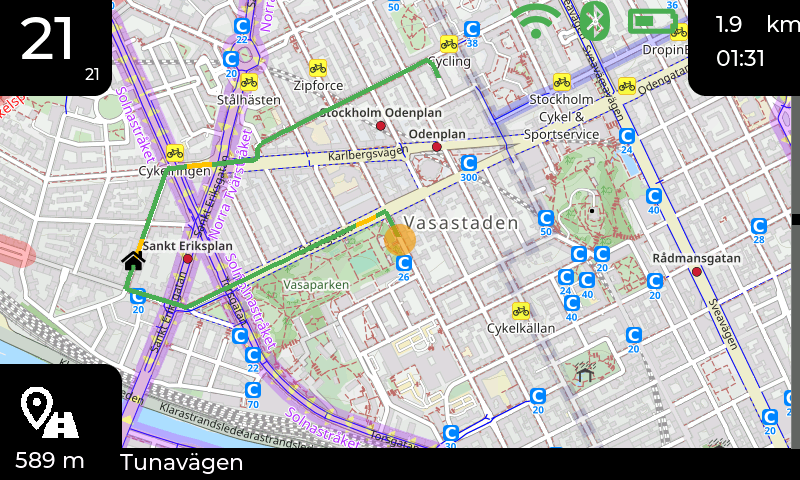
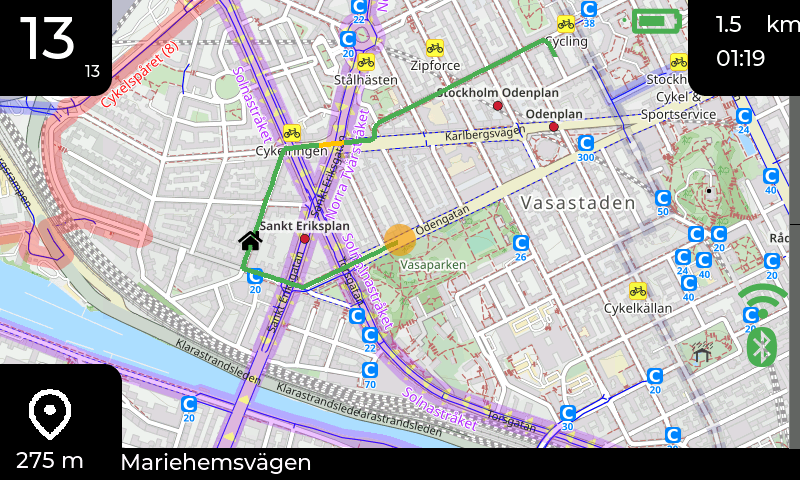
user_interface/esp32: Add wifi ota update support (broken for now)

diff --git a/esp32/waveshare_p4_touch_4_3/main/main.cc b/esp32/waveshare_p4_touch_4_3/main/main.cc
@@ -9,10 +9,12 @@
 #include "filesystem.hh"
 #include "gpio_esp32.hh"
 #include "gps_reader.hh"
+#include "httpd_ota_updater_esp32.hh"
 #include "i2c_gps_esp32.hh"
 #include "image_cache.hh"
 #include "input.hh"
 #include "nvm_esp32.hh"
+#include "ota_updater.hh"
 #include "pm_esp32.hh"
 #include "rotary_encoder.hh"
 #include "sdkconfig.h"
@@ -688,6 +690,8 @@ app_main(void)
 
     auto input = std::make_unique<Input>(*debounced_button, *rotary_encoder, *touch);
 
+    auto httpd_ota_updater = std::make_unique<TargetHttpdOtaUpdater>(*display);
+
     // Threads
     //  auto buzz_handler =
     //      std::make_unique<BuzzHandler>(*left_buzzer_gpio, *right_buzzer_gpio, application_state);
@@ -695,6 +699,8 @@ app_main(void)
         application_state, pm->CreateFullPowerLock(), *filesystem, *https_client);
 
     auto trip_computer = std::make_unique<TripComputer>(application_state);
+
+    auto ota_updater = std::make_unique<OtaUpdater>(*httpd_ota_updater, application_state);
 
     //    constexpr auto kFullRotation = 2400;
     //    auto speedometer_handler =
@@ -704,6 +710,7 @@ app_main(void)
                                                           *blitter,
                                                           pm->CreateFullPowerLock(),
                                                           *input,
+                                                          *ota_updater,
                                                           application_state,
                                                           *image_cache,
                                                           *tile_cache,
@@ -733,6 +740,7 @@ app_main(void)
     can_bus_handler->Start("can_bus_handler", 4096);
     ble_handler->Start("ble_server", 8192);
     wifi_handler->Start("wifi_handler", 8192);
+    ota_updater->Start("ota_updater", 8192);
     //speedometer_handler->Start("speedometer_handler");
     trip_computer->Start("trip_computer");
 

diff --git a/qt/simulator_main.cc b/qt/simulator_main.cc
@@ -10,6 +10,8 @@
 #include "input.hh"
 #include "nvm_host.hh"
 #include "opportunistic_scheduler.hh"
+#include "ota_updater.hh"
+#include "ota_updater_host.hh"
 #include "pm_host.hh"
 #include "simulator_mainwindow.hh"
 #include "speedometer_handler.hh"
@@ -77,9 +79,11 @@ main(int argc, char* argv[])
     auto nvm_host = std::make_unique<NvmHost>("nvm.txt");
     auto blitter = std::make_unique<BlitterHost>();
     auto wifi_client = std::make_unique<WifiClientHost>();
+    auto ota_updater = std::make_unique<OtaUpdaterHost>(false);
 
     // Threads
     auto storage = std::make_unique<Storage>(application_state, *nvm_host);
+    auto ota_updater_thread = std::make_unique<OtaUpdater>(*ota_updater, application_state);
     auto wifi_handler = std::make_unique<WifiHandler>(application_state, *filesystem, *wifi_client);
     auto input = std::make_unique<Input>(window.GetButtonGpio(), window, window.GetTouch());
     auto trip_computer = std::make_unique<TripComputer>(application_state);
@@ -95,6 +99,7 @@ main(int argc, char* argv[])
                                                           *blitter,
                                                           pm->CreateFullPowerLock(),
                                                           *input, // IInput
+                                                          *ota_updater_thread,
                                                           application_state,
                                                           *image_cache,
                                                           *tile_cache,
@@ -104,6 +109,7 @@ main(int argc, char* argv[])
         std::make_unique<SpeedometerHandler>(window.GetStepperMotor(), application_state, 6000);
 
     storage->Start("storage");
+    ota_updater_thread->Start("ota_updater");
     wifi_handler->Start("wifi_handler");
     input->Start("input");
     trip_computer->Start("trip_computer");

diff --git a/src/user_interface/ota_update_screen.cc b/src/user_interface/ota_update_screen.cc
@@ -1,0 +1,67 @@
+#include "ota_update_screen.hh"
+
+
+namespace
+{
+
+constexpr std::string_view kProgressText =
+    "Als Gregor Samsa eines Morgens aus unruhigen Traumen erwachte, fand er sich in seinem Bett zu "
+    "einem ungeheuren Ungeziefer verwandelt";
+
+constexpr auto kNumberOfWords = std::ranges::count(kProgressText, ' ') + 1;
+static_assert(kNumberOfWords < 100);
+
+auto
+ProgressToString(uint8_t progress)
+{
+    if (progress == 100)
+    {
+        return std::string(kProgressText);
+    }
+
+    auto words = (((progress * 0xff) / 100) * kNumberOfWords) / 0xff;
+
+    ssize_t offset = 0;
+    for (auto word = 0; word < words; word++)
+    {
+        offset += kProgressText.substr(offset).find(' ') + 1;
+    }
+
+    return std::string(kProgressText.substr(0, offset));
+}
+
+} // namespace
+
+OtaUpdateScreen::OtaUpdateScreen(UserInterface& parent)
+    : UserInterface::ScreenBase(parent, lv_obj_create(nullptr))
+{
+    auto instructions = parent.m_ota_updater.GetInstructions();
+    m_label = lv_label_create(m_screen);
+
+    lv_obj_set_style_text_font(m_label, &lv_font_montserrat_22, LV_PART_MAIN);
+
+    lv_label_set_text(m_label, instructions);
+
+    lv_obj_set_style_text_align(m_label, LV_TEXT_ALIGN_CENTER, 0);
+    lv_obj_align(m_label, LV_ALIGN_CENTER, 0, 0);
+    lv_obj_set_width(m_label, hal::kDisplayWidth * 0.7f);
+    lv_label_set_long_mode(m_label, LV_LABEL_LONG_WRAP);
+
+    m_progress_cookie = parent.m_ota_updater.SubscribeOnProgress([this, &parent](auto progress) {
+        m_progress = progress;
+        parent.Awake();
+    });
+}
+
+void
+OtaUpdateScreen::Update()
+{
+    auto progress_now = m_progress.load();
+
+    if (progress_now > 0)
+    {
+        auto text = ProgressToString(progress_now);
+
+        lv_label_set_text(m_label, text.c_str());
+    }
+}

diff --git a/src/user_interface/user_interface.cc b/src/user_interface/user_interface.cc
@@ -2,6 +2,7 @@
 
 #include "indicators.hh"
 #include "map_screen.hh"
+#include "ota_update_screen.hh"
 #include "painter.hh"
 #include "settings_menu_screen.hh"
 #include "trip_meter_screen.hh"
@@ -40,6 +41,7 @@ UserInterface::UserInterface(hal::IDisplay& display,
                              hal::IBlitter& blitter,
                              std::unique_ptr<hal::IPm::ILock> pm_lock,
                              hal::IInput& input,
+                             OtaUpdater& ota_updater,
                              ApplicationState& state,
                              ImageCache& cache,
                              TileCache& tile_cache,
@@ -48,6 +50,7 @@ UserInterface::UserInterface(hal::IDisplay& display,
     , m_blitter(blitter)
     , m_pm_lock(std::move(pm_lock))
     , m_input(input)
+    , m_ota_updater(ota_updater)
     , m_state(state)
     , m_image_cache(cache)
     , m_tile_cache(tile_cache)
@@ -175,8 +178,12 @@ UserInterface::OnStartup()
     m_map_screen = std::make_unique<MapScreen>(*this, m_image_cache, m_tile_cache, kDefaultZoom);
     m_trip_meter_screen = std::make_unique<TripMeterScreen>(*this);
     m_settings_menu_screen = std::make_unique<SettingsMenuScreen>(*this);
+    m_ota_update_screen = std::make_unique<OtaUpdateScreen>(*this);
 
-    m_screens = {m_map_screen.get(), m_trip_meter_screen.get(), m_settings_menu_screen.get()};
+    m_screens = {m_map_screen.get(),
+                 m_trip_meter_screen.get(),
+                 m_settings_menu_screen.get(),
+                 m_ota_update_screen.get()};
 
     // Keep this widget above any active screen (map, trip meter, settings, ...).
     m_digital_speedometer = std::make_unique<DigitalSpeedometerWidget>(lv_layer_top());

diff --git a/src/user_interface/settings_menu_screen.cc b/src/user_interface/settings_menu_screen.cc
@@ -140,12 +140,20 @@ SettingsMenuScreen::OnActivation()
                                           .GetWritableReference<AS::configuration>()
                                           .show_speech_bubbles = value;
                                   });
+    settings_page.AddSeparator();
     settings_page.AddBooleanEntry(
         "Force C6 FW upgrade", ro.Get<AS::configuration>()->force_c6_update, [this](auto value) {
             m_parent.m_state.CheckoutPartialSnapshot<AS::configuration>()
                 .GetWritableReference<AS::configuration>()
                 .force_c6_update = value;
         });
+    settings_page.AddEntry("Perform OTA update", [this]() {
+        auto rw = m_parent.m_state.CheckoutReadWrite();
+        rw.Set<AS::ota_update_active>(true);
+        rw.Set<AS::demo_mode>(false);
+
+        m_parent.ActivateScreen(*m_parent.m_ota_update_screen);
+    });
 
     main.AddEntry("Reset trip", [this]() {
         m_parent.ResetTrip();
